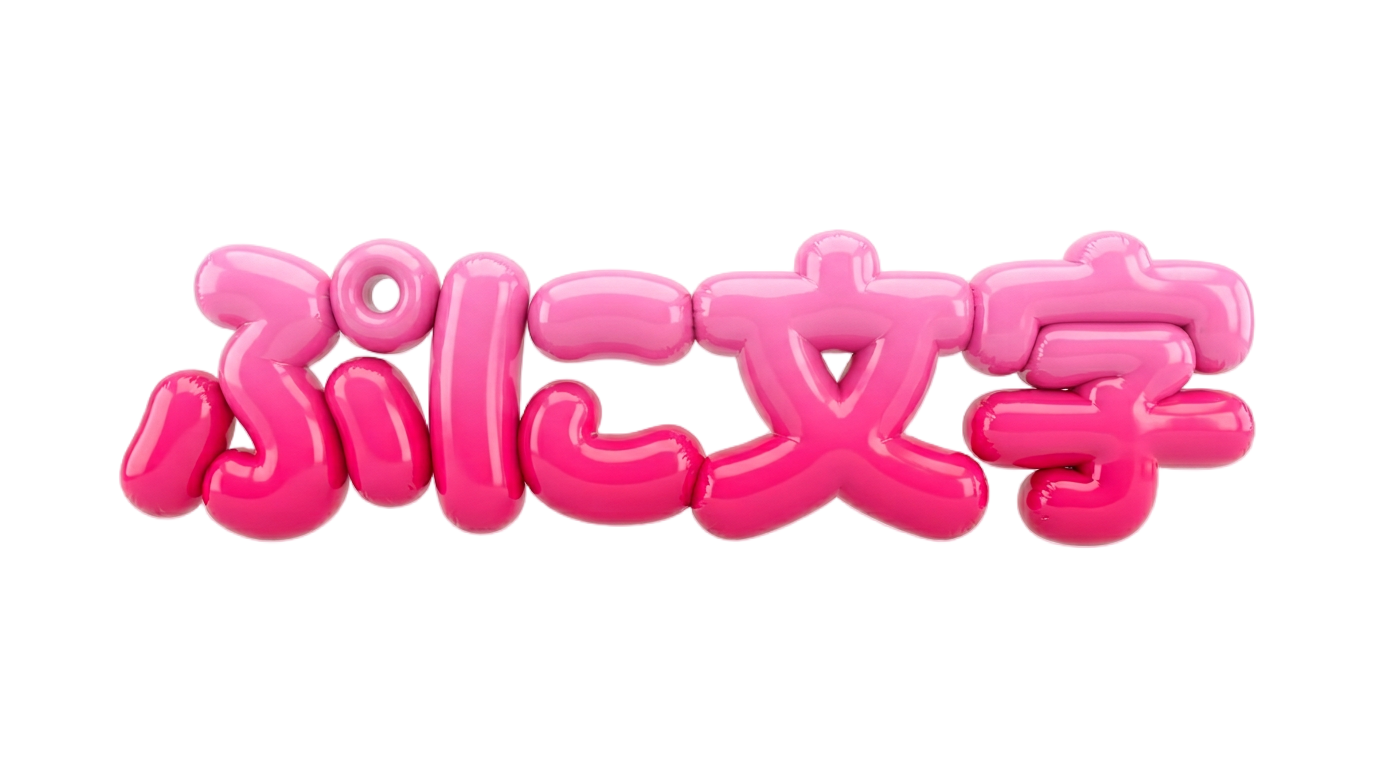
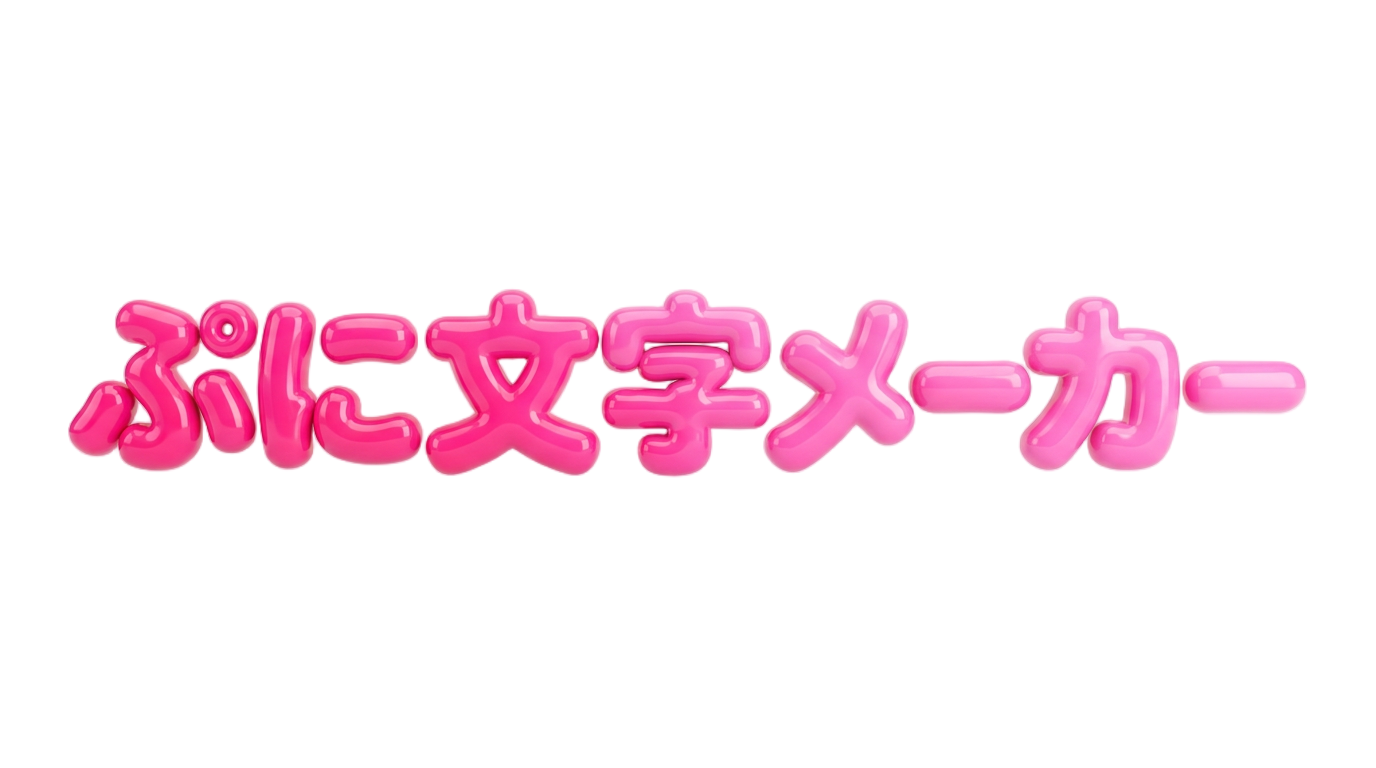
fix: punimoji タイトル画像サイズ調整・メーカーテキスト削除

Changed region(s): [[0.0312, 0.2812, 0.9688, 0.7188]]

diff --git a/app/punimoji/components/PunimojiClient.tsx b/app/punimoji/components/PunimojiClient.tsx
@@ -119,33 +119,23 @@ export default function PunimojiClient() {
           padding: "40px 20px 80px",
         }}
       >
-        <div style={{ position: "relative", zIndex: 1, width: "100%", maxWidth: 400, display: "flex", flexDirection: "column", alignItems: "center" }}>
+        <div style={{ position: "relative", zIndex: 1, width: "100%", maxWidth: 720, display: "flex", flexDirection: "column", alignItems: "center" }}>
           {/* Title image */}
           <img
             src="/punimoji/title.png"
-            alt="ぷに文字"
+            alt="ぷに文字メーカー"
             style={{
-              width: "80%",
-              maxWidth: 320,
-              marginBottom: 4,
+              width: "92%",
+              maxWidth: 720,
+              marginTop: 40,
+              marginBottom: 12,
             }}
           />
 
-          <h1
-            style={{
-              fontSize: 40,
-              fontWeight: 700,
-              color: "#2D1B3D",
-              marginBottom: 8,
-              textAlign: "center",
-            }}
-          >
-            メーカー
-          </h1>
-
           <p
             style={{
-              fontSize: 14,
+              fontSize: 16,
+              fontWeight: 500,
               color: "#8B7A9A",
               marginBottom: 32,
               textAlign: "center",
